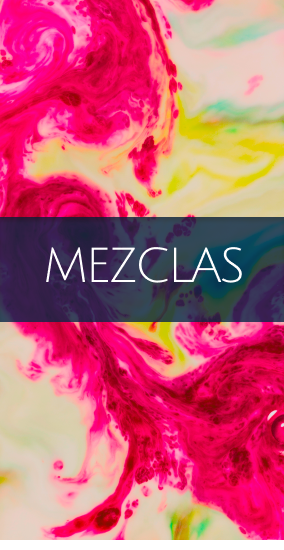
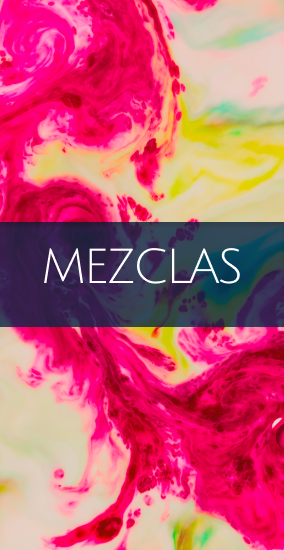
agregando marco de colores

diff --git a/src/Productos.tsx b/src/Productos.tsx
@@ -158,7 +158,7 @@ export const Productos = () => {
             ))}
           </div>
           {/* Texto separador entre secciones */}
-          <div className="text-center py-8 bg-gray-100">
+          <div className="text-center py-8 ">
             <p className="text-gray-600">
               O sigue bajando para explorar todos nuestros productos
             </p>
@@ -168,10 +168,12 @@ export const Productos = () => {
         {/* Sección de Aditivos (CON filtro) */}
         <section className="w-full mb-10">
           {/* Header de la sección */}
-          <div className="bg-gray-300 py-4 px-8 text-right">
-            <h2 className="text-2xl font-bold text-gray-800">Aditivos</h2>
-            <p className="text-gray-600">El plus para tu productooo</p>
-          </div>
+<div
+  className="bg-[url('/marcoColores.png')] bg-cover bg-center py-4 px-8 text-right h-[181px]"
+>
+  <h2 className="text-2xl font-bold ">Aditivos</h2>
+  <p className="">El plus para tu productooo</p>
+</div>
           {/* Grid de productos - 2 productos grandes + 3 pequeños en columna */}
           <div className="grid grid-cols-3 h-64">
             <ProductCard 
